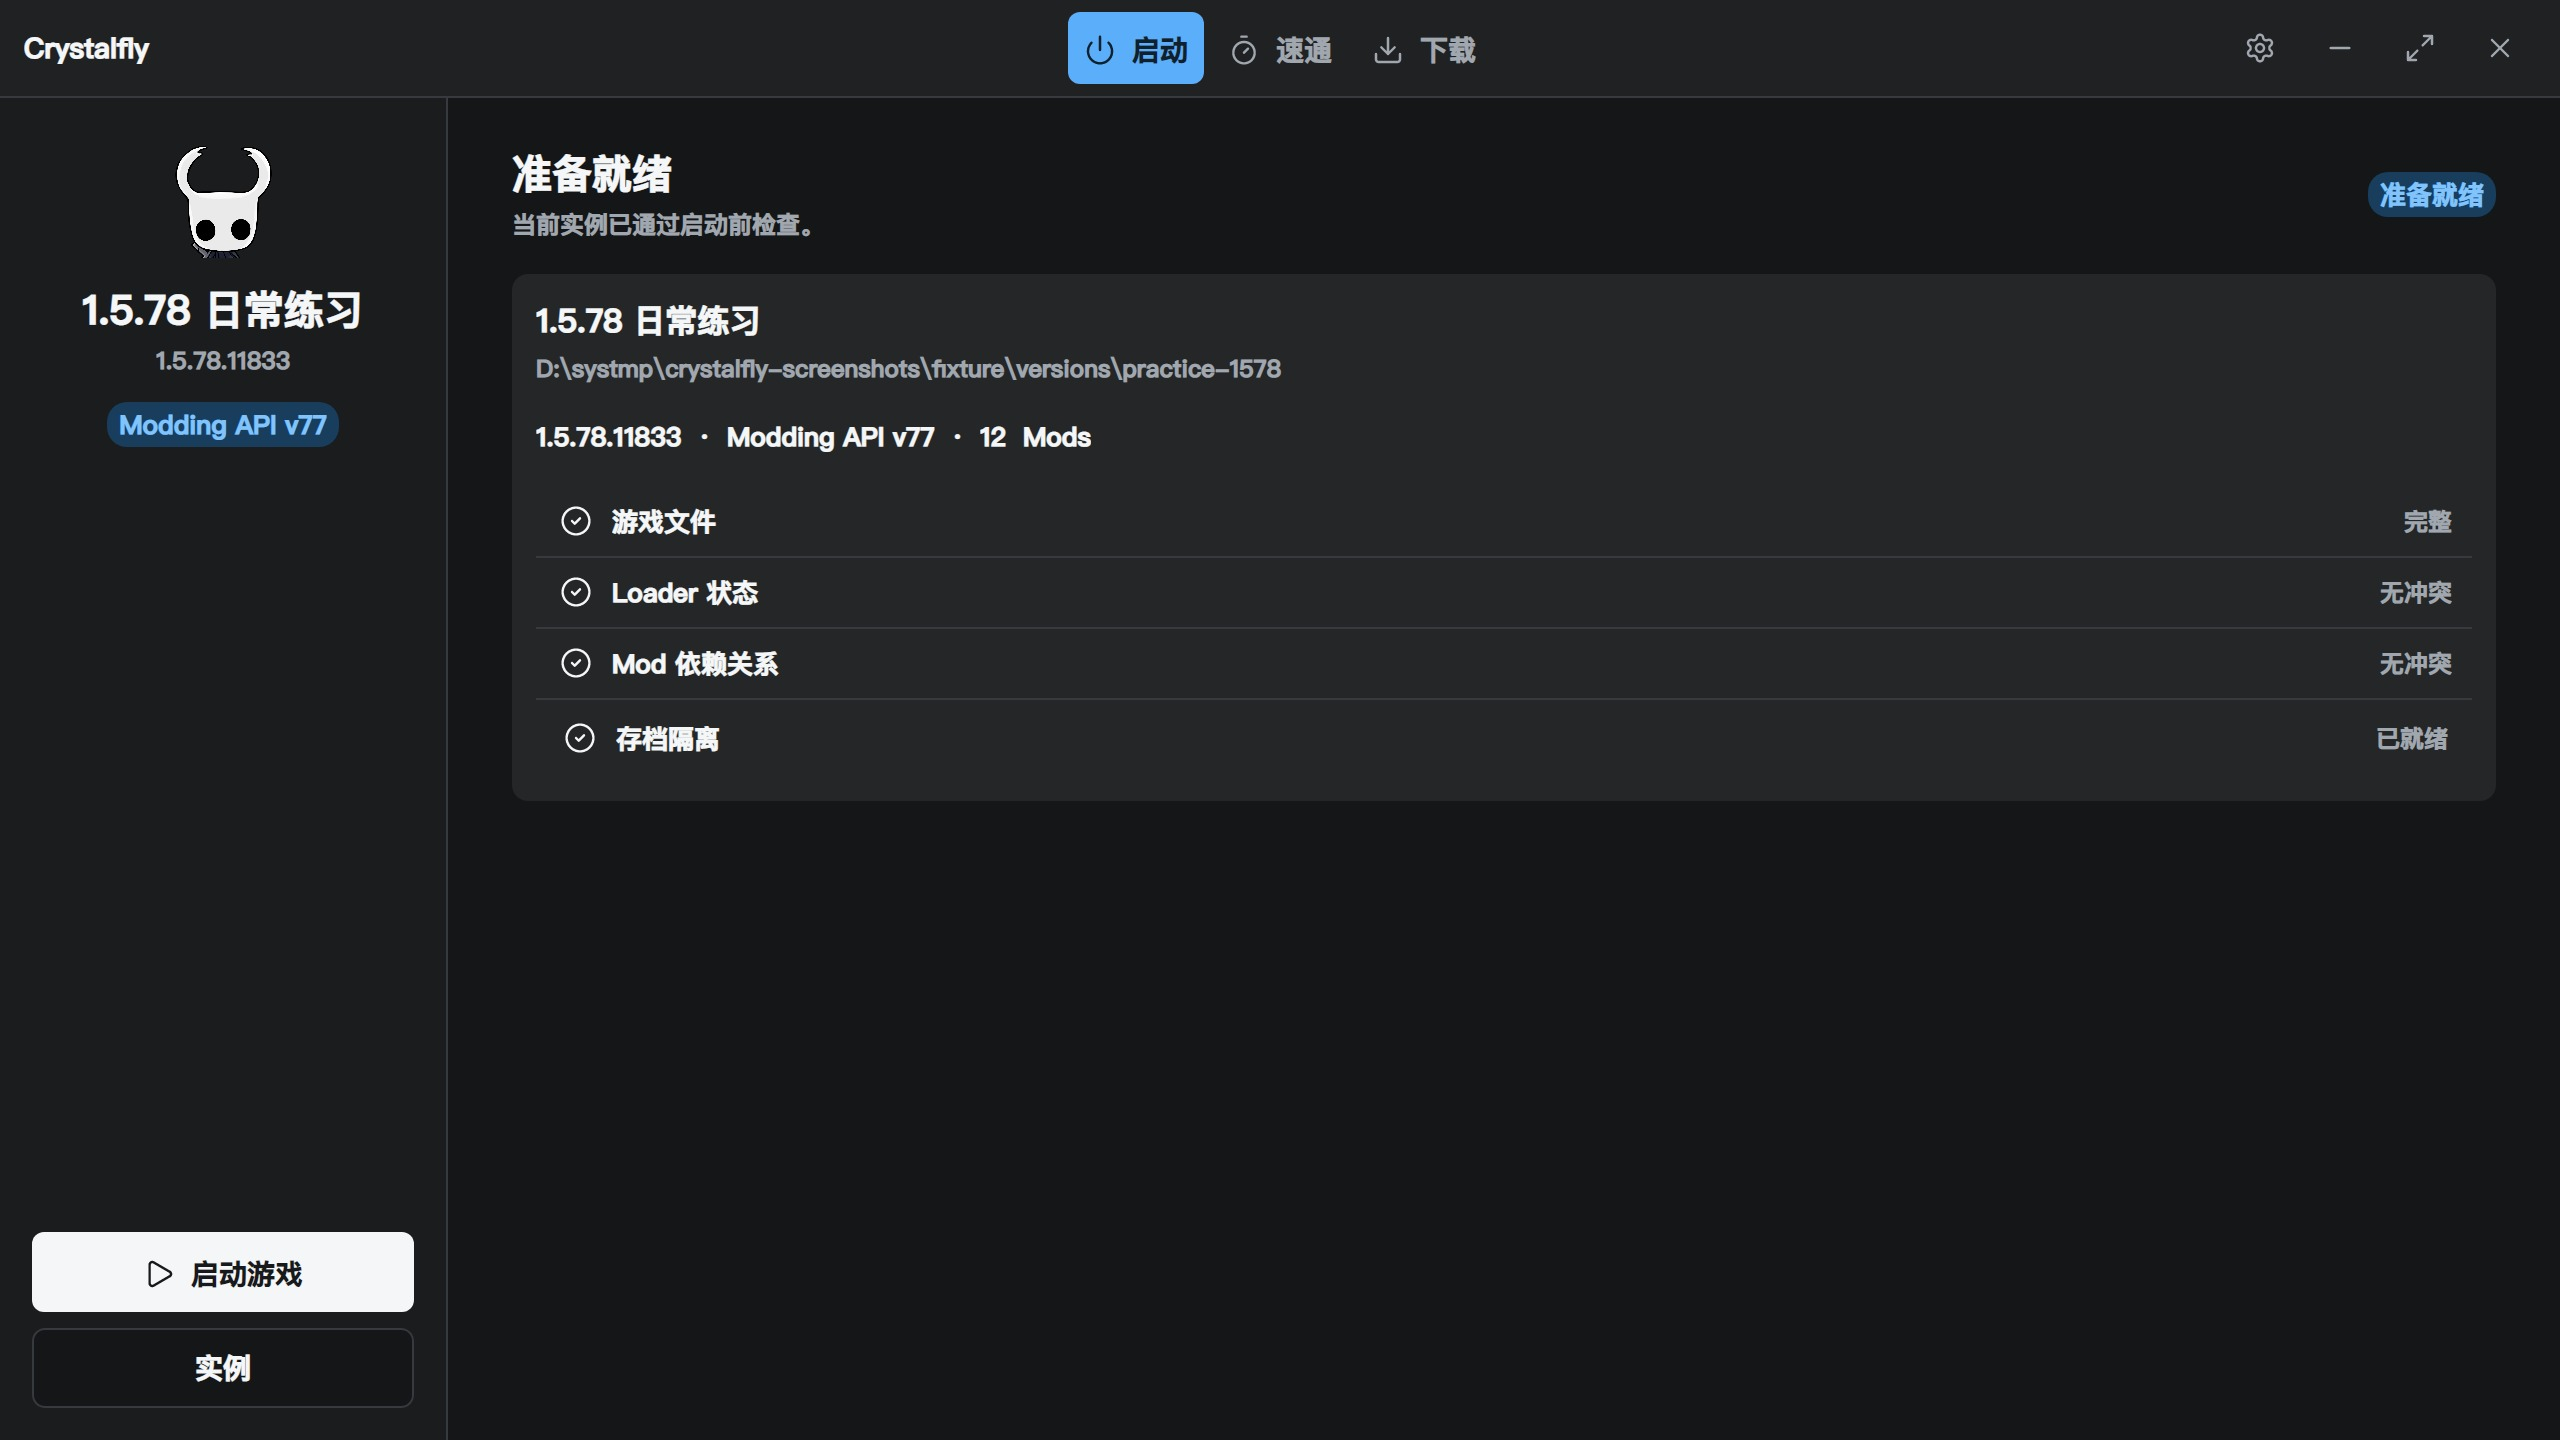
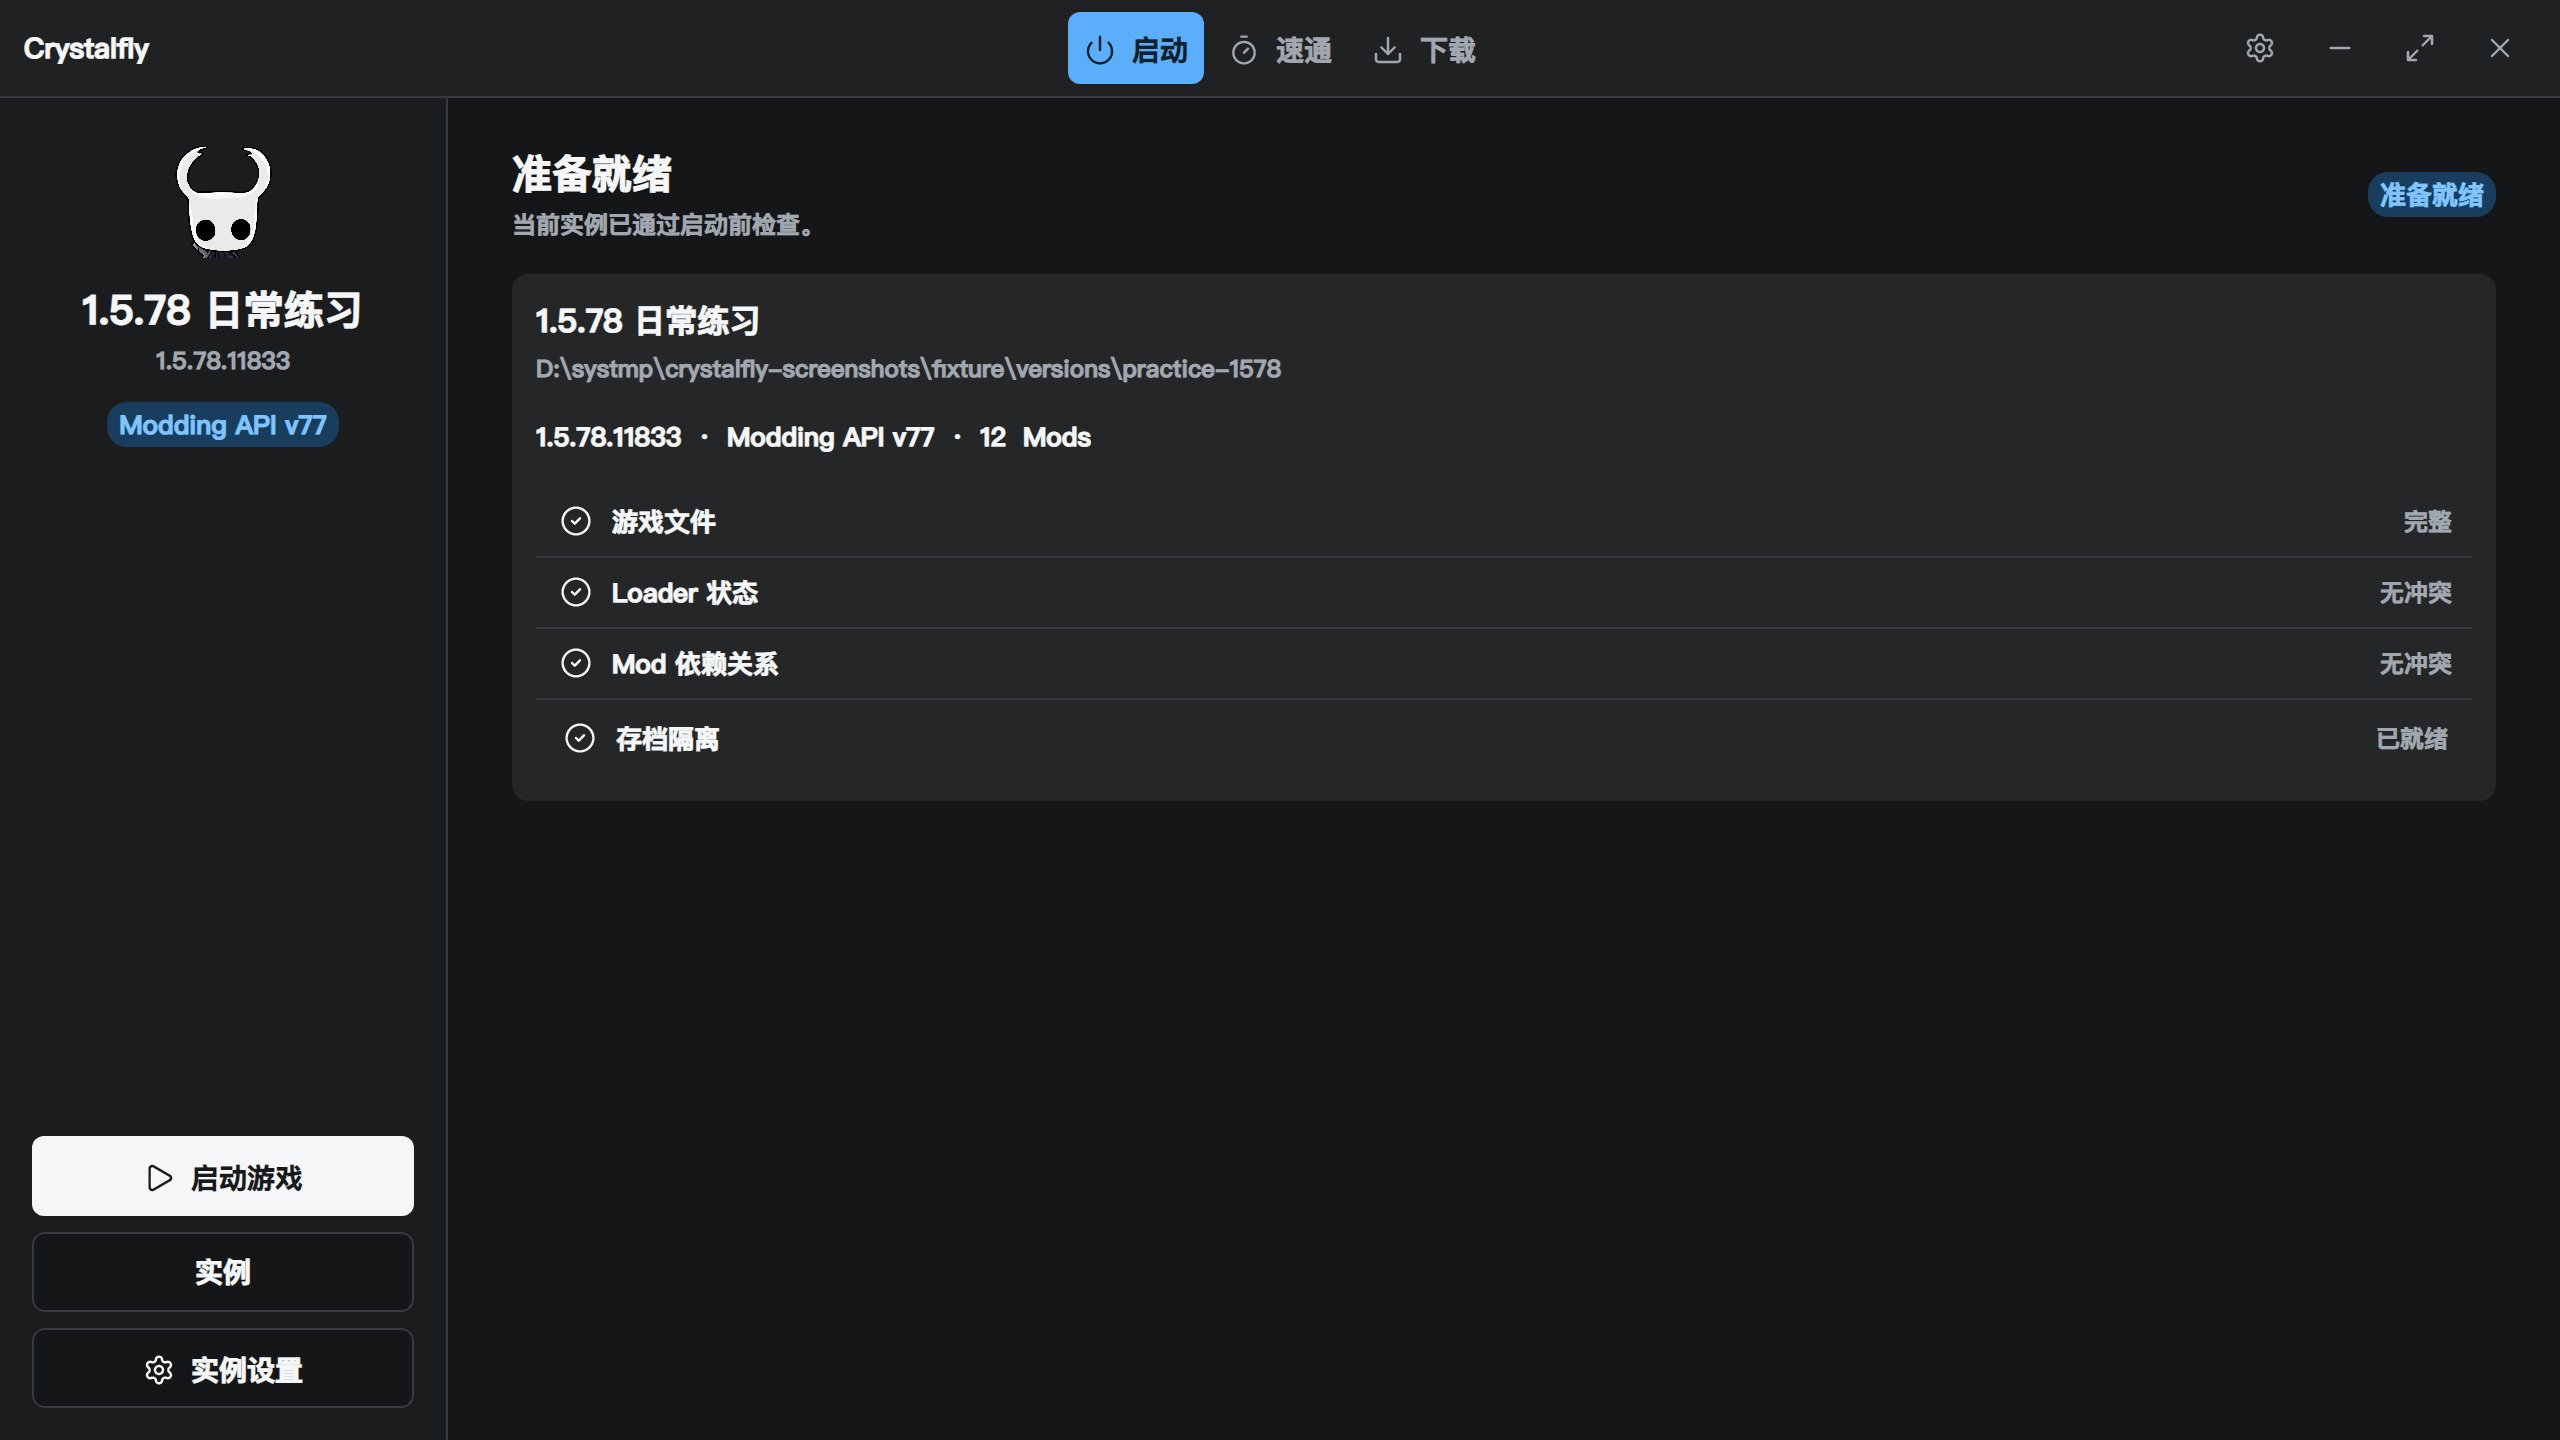
fix: keep instance actions visible and restore settings

Changed region(s): [[0.0, 0.7812, 0.1875, 0.9688]]

diff --git a/tests/Crystalfly.App.Tests/Ui/LayoutRenderingTests.cs b/tests/Crystalfly.App.Tests/Ui/LayoutRenderingTests.cs
@@ -395,7 +395,7 @@ public sealed class LayoutRenderingTests
                 .OfType<Button>()
                 .Where(button => button.IsEffectivelyVisible)
                 .ToArray();
-            Assert.Equal(2, buttons.Length);
+            Assert.Equal(3, buttons.Length);
 
             var origins = buttons
                 .Select(button => Assert.IsType<Point>(button.TranslatePoint(default, rail)))
@@ -404,6 +404,74 @@ public sealed class LayoutRenderingTests
             Assert.All(buttons, button => Assert.Equal(HorizontalAlignment.Center, button.HorizontalContentAlignment));
             Assert.All(buttons, button => Assert.InRange(Math.Abs(button.Bounds.Width - buttons[0].Bounds.Width), 0, 0.5));
             Assert.True(origins[1].Y >= origins[0].Y + buttons[0].Bounds.Height + 7.5);
+            Assert.True(origins[2].Y >= origins[1].Y + buttons[1].Bounds.Height + 7.5);
+        }
+        finally
+        {
+            CloseImmediately(window);
+        }
+    }
+
+    [AvaloniaFact]
+    public void Instance_rows_keep_summary_left_and_selected_actions_visible()
+    {
+        var viewModel = new MainViewModel(Path.Combine(Path.GetTempPath(), "crystalfly-ui", Guid.NewGuid().ToString("N")))
+        {
+            CurrentPage = "Versions"
+        };
+        var instances = Enumerable.Range(1, 3)
+            .Select(index => new InstanceItemViewModel(
+                new InstanceRecord
+                {
+                    Id = $"instance-{index}",
+                    Name = $"Hollow Knight {index}",
+                    RootPath = Path.Combine(Path.GetTempPath(), $"hollow-knight-{index}"),
+                    BuildId = "1.5.78.11833",
+                    CreatedAt = DateTimeOffset.UtcNow
+                },
+                "1.5.78.11833",
+                "modding-api-77",
+                index))
+            .ToArray();
+        foreach (var instance in instances)
+        {
+            viewModel.Instances.Add(instance);
+            viewModel.VisibleInstances.Add(instance);
+        }
+        viewModel.SelectedInstance = instances[1];
+
+        var window = new MainWindow { Width = 1100, Height = 720 };
+        window.Show();
+        window.DataContext = viewModel;
+        Dispatcher.UIThread.RunJobs();
+        AvaloniaHeadlessPlatform.ForceRenderTimerTick(2);
+
+        try
+        {
+            var rows = window.GetVisualDescendants()
+                .OfType<Grid>()
+                .Where(grid => grid.Classes.Contains("cfp-instance-row"))
+                .ToArray();
+            Assert.Equal(3, rows.Length);
+
+            foreach (var row in rows)
+            {
+                var summary = row.Children.OfType<Grid>().Single(grid => grid.Classes.Contains("cfp-instance-summary"));
+                var actions = row.Children.OfType<StackPanel>().Single(panel => panel.Classes.Contains("cfp-instance-actions"));
+                var main = row.Children.OfType<Button>().Single(button => button.Classes.Contains("cfp-instance-main"));
+                var summaryOrigin = Assert.IsType<Point>(summary.TranslatePoint(default, row));
+                var actionsOrigin = Assert.IsType<Point>(actions.TranslatePoint(default, row));
+
+                Assert.InRange(summaryOrigin.X, 0, 0.5);
+                Assert.InRange(actionsOrigin.X, row.Bounds.Width - 94.5, row.Bounds.Width - 93.5);
+                Assert.InRange(Math.Abs(main.Bounds.Width - row.Bounds.Width), 0, 0.5);
+            }
+
+            var selectedRow = rows.Single(row => ReferenceEquals(row.DataContext, instances[1]));
+            var selectedActions = selectedRow.Children.OfType<StackPanel>()
+                .Single(panel => panel.Classes.Contains("cfp-instance-actions"));
+            Assert.Equal(1, selectedActions.Opacity);
+            Assert.True(selectedActions.IsHitTestVisible);
         }
         finally
         {

diff --git a/tests/Crystalfly.App.Tests/Ui/MainWindowStructureTests.cs b/tests/Crystalfly.App.Tests/Ui/MainWindowStructureTests.cs
@@ -22,13 +22,35 @@ public sealed class MainWindowStructureTests
         var launchGrid = FindSectionRoot(document, "IsLaunchPage");
         Assert.DoesNotContain(launchGrid.Descendants(Avalonia + "Button"), button => HasBinding(button, "Command", "ManageSelectedInstanceCommand"));
         Assert.Contains(launchGrid.Descendants(Avalonia + "Button"), button => HasBinding(button, "Command", "SelectPageCommand") && (string?)button.Attribute("CommandParameter") == "Versions");
+        Assert.Contains(launchGrid.Descendants(Avalonia + "Button"), button =>
+            HasBinding(button, "Command", "OpenInstanceSettingsCommand")
+            && HasBinding(button, "CommandParameter", "SelectedInstance"));
 
         var versionsGrid = FindSectionRoot(document, "IsVersionsPage");
-        Assert.Contains(versionsGrid.Descendants(Avalonia + "ListBox"), list => HasClass(list, "cfp-instance-list"));
+        var instanceList = versionsGrid.Descendants(Avalonia + "ListBox").Single(list => HasClass(list, "cfp-instance-list"));
+        var instanceRow = instanceList.Descendants(Avalonia + "Grid").Single(grid => HasClass(grid, "cfp-instance-row"));
+        var instanceMain = instanceRow.Elements(Avalonia + "Button").Single(button => HasClass(button, "cfp-instance-main"));
+        var instanceSummary = instanceRow.Elements(Avalonia + "Grid").Single(grid => HasClass(grid, "cfp-instance-summary"));
+        var instanceActions = instanceRow.Elements(Avalonia + "StackPanel").Single(panel => HasClass(panel, "cfp-instance-actions"));
+
+        Assert.Equal("Stretch", (string?)instanceRow.Attribute("HorizontalAlignment"));
+        Assert.Equal("2", (string?)instanceMain.Attribute("Grid.ColumnSpan"));
+        Assert.Equal("Left", (string?)instanceSummary.Attribute("HorizontalAlignment"));
+        Assert.Equal("94", (string?)instanceActions.Attribute("Width"));
         Assert.Contains(versionsGrid.Descendants(Avalonia + "Button"), button => HasClass(button, "cfp-instance-action") && (string?)button.Attribute("Click") == "ConfirmDeleteInstance");
         Assert.Contains(versionsGrid.Descendants(Avalonia + "Button"), button => HasClass(button, "cfp-instance-action") && (string?)button.Attribute("Click") == "CloneInstanceWithName");
         Assert.Contains(versionsGrid.Descendants(Avalonia + "Button"), button => HasClass(button, "cfp-instance-action") && HasBinding(button, "Command", "OpenInstanceSettingsCommand"));
         Assert.DoesNotContain(versionsGrid.Descendants(Avalonia + "TextBox"), textBox => HasBinding(textBox, "Text", "CloneInstanceName"));
+
+        var theme = File.ReadAllText(Path.Combine(
+            FindRepositoryRoot(),
+            "src",
+            "Crystalfly.App",
+            "Styles",
+            "CrystalflyTheme.axaml"));
+        Assert.Contains("ListBox.cfp-instance-list > ListBoxItem:pointerover StackPanel.cfp-instance-actions", theme, StringComparison.Ordinal);
+        Assert.Contains("ListBox.cfp-instance-list > ListBoxItem:selected StackPanel.cfp-instance-actions", theme, StringComparison.Ordinal);
+        Assert.DoesNotContain("Grid.cfp-instance-row:pointerover StackPanel.cfp-instance-actions", theme, StringComparison.Ordinal);
     }
 
     [Fact]

diff --git a/src/Crystalfly.App/ViewModels/LocalizationViewModel.cs b/src/Crystalfly.App/ViewModels/LocalizationViewModel.cs
@@ -22,7 +22,7 @@ public sealed class LocalizationViewModel : ViewModelBase
         ["ChooseRoot"] = "Choose a version root to discover Hollow Knight instances.",
         ["LaunchGame"] = "Launch game",
         ["Refresh"] = "Refresh",
-        ["ManageInstance"] = "Manage instance",
+        ["ManageInstance"] = "Instance settings",
         ["LoaderFiles"] = "Game and loader files",
         ["ModDependencies"] = "Mod dependencies",
         ["SaveIsolation"] = "Save isolation",
@@ -296,7 +296,7 @@ public sealed class LocalizationViewModel : ViewModelBase
         ["ChooseRoot"] = "请选择版本根目录以发现空洞骑士实例。",
         ["LaunchGame"] = "启动游戏",
         ["Refresh"] = "刷新",
-        ["ManageInstance"] = "管理实例",
+        ["ManageInstance"] = "实例设置",
         ["LoaderFiles"] = "游戏与 Loader 文件",
         ["ModDependencies"] = "Mod 依赖关系",
         ["SaveIsolation"] = "存档隔离",

diff --git a/README.md b/README.md
@@ -128,7 +128,7 @@ dotnet restore '.\Crystalfly.slnx'
 dotnet build '.\Crystalfly.slnx' -c Release --no-restore
 dotnet test '.\Crystalfly.slnx' -c Release --no-build
 
-pwsh -NoProfile -File '.\scripts\build-release.ps1' -Version '0.2.0'
+pwsh -NoProfile -File '.\scripts\build-release.ps1' -Version '0.2.1'
 ```
 
 脚本会自动查找 Inno Setup 6；自定义安装位置可传入 `-IsccPath '<ISCC.exe 路径>'`。安装包默认安装到 `D:\Program Files\Crystalfly`，需要管理员权限。便携 ZIP 可直接解压到其他目录。本地输出位于 `artifacts`：self-contained publish、带 `portable.flag` 的便携 ZIP、Inno Setup 安装包和 `SHA256SUMS.txt`。首轮只公开源码；本地产物未做 Authenticode 签名，仅用于本机验证。详细设计见 [架构文档](docs/architecture.md)。
@@ -211,7 +211,7 @@ dotnet run --project '.\src\Crystalfly.App\Crystalfly.App.csproj'
 ### Release build
 
 ```powershell
-pwsh -NoProfile -File '.\scripts\build-release.ps1' -Version '0.2.0'
+pwsh -NoProfile -File '.\scripts\build-release.ps1' -Version '0.2.1'
 ```
 
 The script automatically locates Inno Setup 6 from `PATH` or its standard install directories. Pass `-IsccPath '<path to ISCC.exe>'` for a custom location. The installer defaults to `D:\Program Files\Crystalfly` and requests administrator privileges; the portable ZIP can be extracted elsewhere. Outputs under `artifacts` include the self-contained publish, portable ZIP, installer, and `SHA256SUMS.txt`.